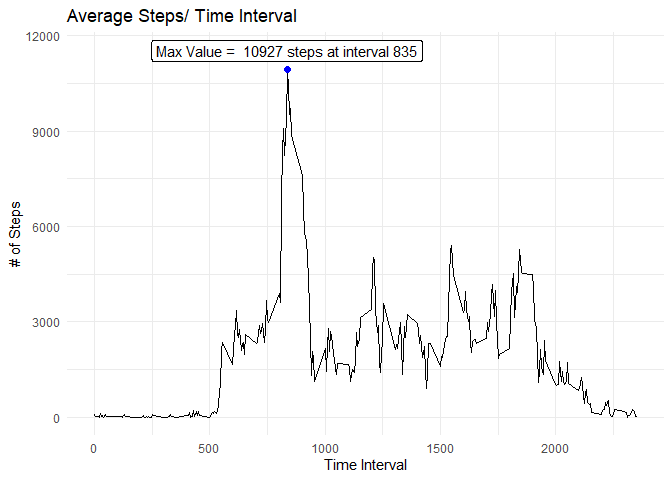
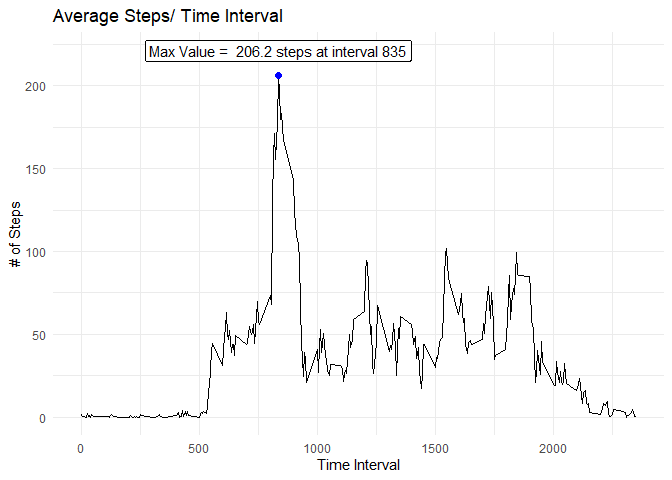
Recommit all assignments files after update to code.

diff --git a/PA1_template.html b/PA1_template.html
@@ -208,43 +208,15 @@ hr {
 
 <pre><code class="r">#load the libraries
 library(tidyverse)
-</code></pre>
+library(gridExtra)
 
-<pre><code>## ── Attaching packages ──────────────────────────────────────────────────────────── tidyverse 1.3.1 ──
-</code></pre>
-
-<pre><code>## ✔ ggplot2 3.3.6     ✔ purrr   0.3.4
-## ✔ tibble  3.1.7     ✔ dplyr   1.0.9
-## ✔ tidyr   1.2.0     ✔ stringr 1.4.0
-## ✔ readr   2.1.2     ✔ forcats 0.5.1
-</code></pre>
-
-<pre><code>## ── Conflicts ─────────────────────────────────────────────────────────────── tidyverse_conflicts() ──
-## ✖ dplyr::filter() masks stats::filter()
-## ✖ dplyr::lag()    masks stats::lag()
-</code></pre>
-
-<pre><code class="r">library(gridExtra)
-</code></pre>
-
-<pre><code>## 
-## Attaching package: &#39;gridExtra&#39;
-</code></pre>
-
-<pre><code>## The following object is masked from &#39;package:dplyr&#39;:
-## 
-##     combine
-</code></pre>
-
-<pre><code class="r">options(scipen=999)
+options(scipen=999)
 #load the data
 activitydata &lt;- read_csv(&quot;activity.zip&quot;)
 </code></pre>
 
 <pre><code>## Rows: 17568 Columns: 3
-</code></pre>
-
-<pre><code>## ── Column specification ─────────────────────────────────────────────────────────────────────────────
+## ── Column specification ─────────────────────────────────────────────────────────────────────────────
 ## Delimiter: &quot;,&quot;
 ## dbl  (2): steps, interval
 ## date (1): date
@@ -284,7 +256,9 @@ print(p1)
 
 <h2>What is the average daily activity pattern?</h2>
 
-<pre><code class="r">intervalgroup &lt;- na.omit(activitydata) %&gt;% group_by(interval) %&gt;% summarize(total = sum(steps))
+<pre><code class="r">intervalgroup &lt;- na.omit(activitydata) %&gt;% group_by(interval) %&gt;% summarize(total = mean(steps))
+
+
 
 #----------Find the max average interval------------------------
 maxpoint &lt;- intervalgroup[which.max(intervalgroup$total),]
@@ -298,8 +272,8 @@ p3 &lt;- ggplot(intervalgroup, aes(interval, total)) +
                    cex = 2) +
         geom_label(data=maxpoint, 
                    aes(label = paste(&quot;Max Value = &quot;, 
-                                     total, &quot;steps at interval&quot;, 
-                                     interval)), nudge_y = 600) +
+                                     round(total,1), &quot;steps at interval&quot;, 
+                                     interval)), nudge_y = 15) +
         labs(title = &quot;Average Steps/ Time Interval&quot;, 
              x = &quot;Time Interval&quot;, 
              y = &quot;# of Steps&quot;) +
@@ -308,7 +282,7 @@ p3 &lt;- ggplot(intervalgroup, aes(interval, total)) +
 print(p3)
 </code></pre>
 
[2 lines of base64/hex data omitted]
 
 <h2>Imputing missing values</h2>
 
@@ -377,7 +351,7 @@ print(p4)
 <h2>Are there differences in activity patterns between weekdays and weekends?</h2>
 
 <pre><code class="r">p5data &lt;-  filter(imputeddata, daytype == &quot;Weekday&quot;) %&gt;% 
-        group_by(interval) %&gt;% summarize(total = sum(steps))
+        group_by(interval) %&gt;% summarize(total = mean(steps))
 
     p5 &lt;-    ggplot(p5data, aes(interval, total)) +
         geom_line() +
@@ -387,22 +361,21 @@ print(p4)
         theme_minimal()
 
 p6data &lt;-  filter(imputeddata, daytype == &quot;Weekend&quot;) %&gt;% 
-        group_by(interval) %&gt;% summarize(total = sum(steps))        
+        group_by(interval) %&gt;% summarize(total = mean(steps))        
 
 p6 &lt;- ggplot(p6data, aes(interval, total)) +
         geom_line() +
         labs(title = &quot;Average Steps during Weekend Days&quot;, 
              x = &quot;Time Interval&quot;, 
              y = &quot;# of Steps&quot;) +
-        ylim(0,10500) +
         theme_minimal()
 
 grid.arrange(p5, p6, ncol = 1)
 </code></pre>
 
[2 lines of base64/hex data omitted]
 
-<p>The plots clearly show that weekend activity is significantly lower than weekday activity.</p>
+<p>The plots show that weekend activity is more consistent throughout the day than weekdays activity.</p>
 
 </body>
 

diff --git a/PA1_template.md b/PA1_template.md
@@ -12,41 +12,8 @@ output:
 ```r
 #load the libraries
 library(tidyverse)
-```
-
-```
-## ── Attaching packages ──────────────────────────────────────────────────────────── tidyverse 1.3.1 ──
-```
-
-```
-## ✔ ggplot2 3.3.6     ✔ purrr   0.3.4
-## ✔ tibble  3.1.7     ✔ dplyr   1.0.9
-## ✔ tidyr   1.2.0     ✔ stringr 1.4.0
-## ✔ readr   2.1.2     ✔ forcats 0.5.1
-```
-
-```
-## ── Conflicts ─────────────────────────────────────────────────────────────── tidyverse_conflicts() ──
-## ✖ dplyr::filter() masks stats::filter()
-## ✖ dplyr::lag()    masks stats::lag()
-```
-
-```r
 library(gridExtra)
-```
 
-```
-## 
-## Attaching package: 'gridExtra'
-```
-
-```
-## The following object is masked from 'package:dplyr':
-## 
-##     combine
-```
-
-```r
 options(scipen=999)
 #load the data
 activitydata <- read_csv("activity.zip")
@@ -54,9 +21,6 @@ activitydata <- read_csv("activity.zip")
 
 ```
 ## Rows: 17568 Columns: 3
-```
-
-```
 ## ── Column specification ─────────────────────────────────────────────────────────────────────────────
 ## Delimiter: ","
 ## dbl  (2): steps, interval
@@ -107,7 +71,9 @@ The mean and median values are close in value ignoring the NA values:
 
 
 ```r
-intervalgroup <- na.omit(activitydata) %>% group_by(interval) %>% summarize(total = sum(steps))
+intervalgroup <- na.omit(activitydata) %>% group_by(interval) %>% summarize(total = mean(steps))
+
+                                                                          
 
 #----------Find the max average interval------------------------
 maxpoint <- intervalgroup[which.max(intervalgroup$total),]
@@ -121,8 +87,8 @@ p3 <- ggplot(intervalgroup, aes(interval, total)) +
                    cex = 2) +
         geom_label(data=maxpoint, 
                    aes(label = paste("Max Value = ", 
-                                     total, "steps at interval", 
-                                     interval)), nudge_y = 600) +
+                                     round(total,1), "steps at interval", 
+                                     interval)), nudge_y = 15) +
         labs(title = "Average Steps/ Time Interval", 
              x = "Time Interval", 
              y = "# of Steps") +
@@ -212,7 +178,7 @@ The mean value is a little lower and the median value dropped more significantly
 
 ```r
 p5data <-  filter(imputeddata, daytype == "Weekday") %>% 
-        group_by(interval) %>% summarize(total = sum(steps))
+        group_by(interval) %>% summarize(total = mean(steps))
         
     p5 <-    ggplot(p5data, aes(interval, total)) +
         geom_line() +
@@ -222,14 +188,13 @@ p5data <-  filter(imputeddata, daytype == "Weekday") %>%
         theme_minimal()
 
 p6data <-  filter(imputeddata, daytype == "Weekend") %>% 
-        group_by(interval) %>% summarize(total = sum(steps))        
+        group_by(interval) %>% summarize(total = mean(steps))        
         
 p6 <- ggplot(p6data, aes(interval, total)) +
         geom_line() +
         labs(title = "Average Steps during Weekend Days", 
              x = "Time Interval", 
              y = "# of Steps") +
-        ylim(0,10500) +
         theme_minimal()
 
 grid.arrange(p5, p6, ncol = 1)
@@ -239,4 +204,4 @@ grid.arrange(p5, p6, ncol = 1)
   
   
   
-  The plots clearly show that weekend activity is significantly lower than weekday activity.
+  The plots show that weekend activity is more consistent throughout the day than weekdays activity.
